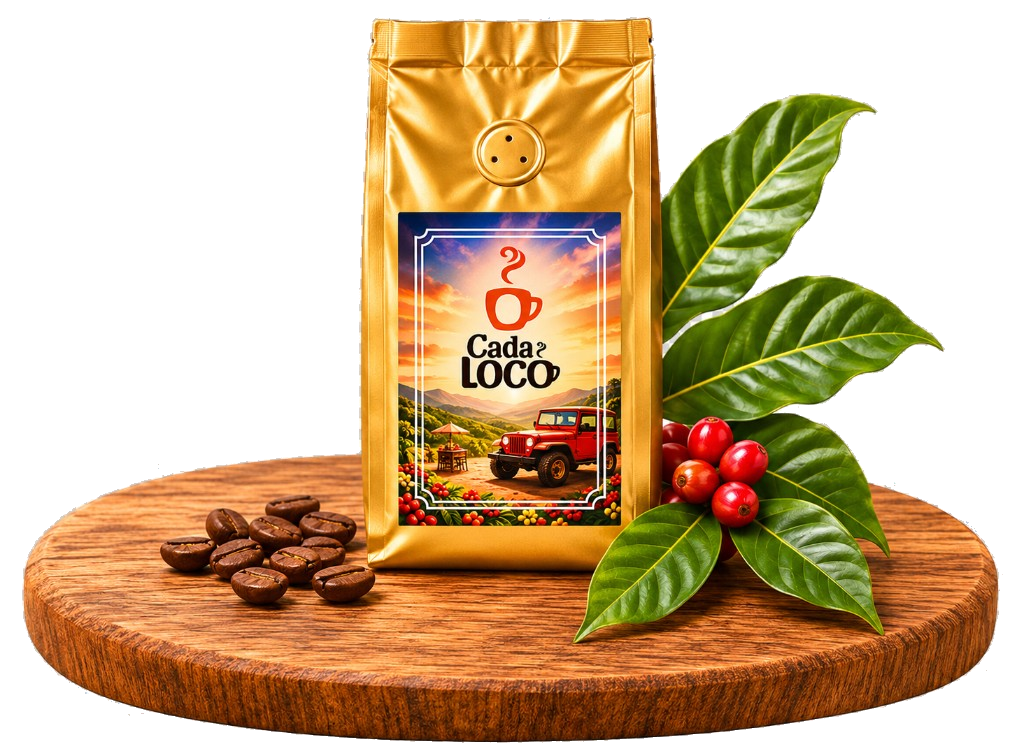
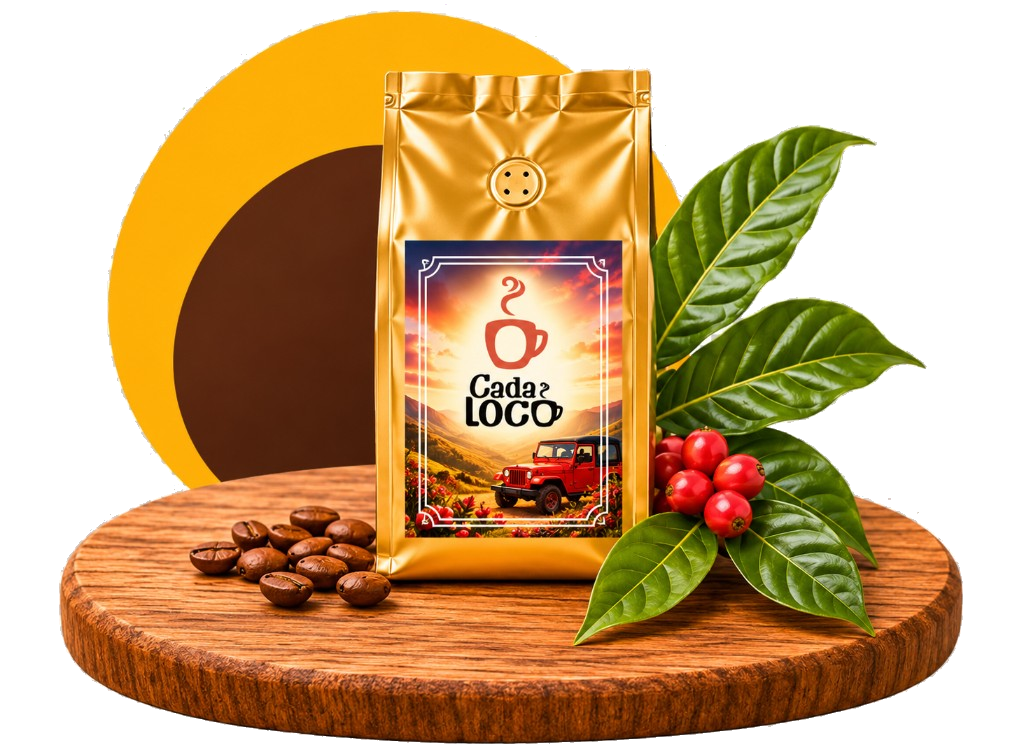
Cambia la bolsa de La casa por la versión con los círculos.

diff --git a/cafe.html b/cafe.html
@@ -51,7 +51,7 @@
           </div>
           <div class="house-still">
             <img
-              src="assets/casa-bolsa.png"
+              src="assets/casa-bolsa.png?v=2"
               alt="Bolsa dorada de café Cada Loco con su Tema, sobre una tabla de madera con hojas y cerezas."
               width="1024"
               height="751"
